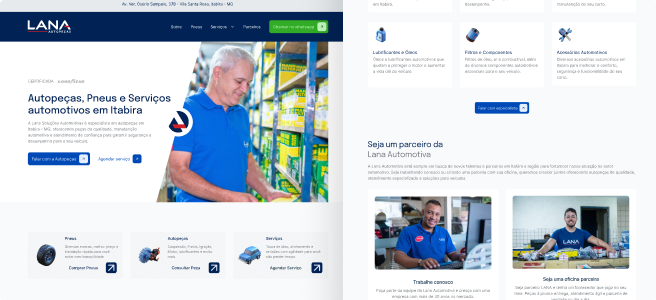
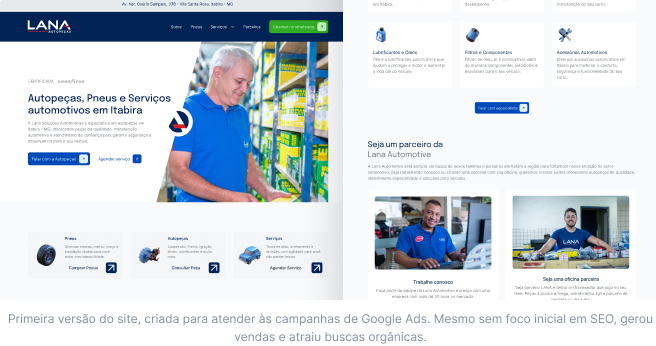
final?

diff --git a/src/App.jsx b/src/App.jsx
@@ -790,10 +790,11 @@ function LanaPage() {
       <main className="elev-case lana-case" aria-labelledby="lana-title">
         <article className="elev-case__shell" ref={reveal}>
           <CaseHeader current="Lana Automotiva" />
+          <div className="lana-case__main-content">
           <header className="elev-case__hero">
             <h1 id="lana-title">LANA AUTOMOTIVA</h1>
             <figure className="lana-case__image">
-              <img src="/assets/lana-case/cover.png" alt="Composição das novas páginas da Lana Automotiva" width="656" height="410" />
+              <img src="/assets/lana-case/cover.png" alt="Composição das páginas da Lana Automotiva" width="656" height="410" />
             </figure>
             <dl className="elev-case__meta" aria-label="Informações do projeto">
               <div><dt>Papel</dt><dd>Estratégia · UX/UI</dd></div>
@@ -801,20 +802,30 @@ function LanaPage() {
               <div><dt>Status</dt><dd>Em desenvolvimento</dd></div>
             </dl>
           </header>
-          <section className="elev-case__section" aria-labelledby="lana-project-title">
-            <h2 id="lana-project-title">O projeto</h2>
-            <p>O projeto nasceu para transformar campanhas de Google Ads em oportunidades para a marca. Após lançar uma primeira versão do site, usei dados de busca e desempenho das campanhas para orientar a arquitetura e o conteúdo da versão definitiva.</p>
+
+          <section className="elev-case__section lana-case__intro" aria-labelledby="lana-context-title">
+            <h2 id="lana-context-title">Contexto</h2>
+            <p>A Lana é uma autopeças e centro automotivo em Itabira que atende motoristas da região e frotas de empresas. O site nasceu com um objetivo imediato: sustentar as campanhas de Google Ads.</p>
           </section>
           <hr className="lana-case__divider" />
-          <section className="elev-case__section" aria-labelledby="lana-start-title">
-            <h2 id="lana-start-title">O ponto de partida</h2>
-            <p>A primeira versão do site foi criada para colocar as campanhas de Google Ads em operação e gerar uma base real de comportamento. Em vez de ser tratada como descarte, ela se tornou uma etapa de validação: colocou mensagens, serviços e caminhos de conversão diante de usuários reais antes do investimento na estrutura definitiva.</p>
+          <section className="elev-case__section lana-case__challenge" aria-labelledby="lana-challenge-title">
+            <h2 id="lana-challenge-title">O desafio</h2>
+            <p>Um site feito para receber tráfego pago funciona enquanto há investimento em mídia. O desafio era transformá-lo num canal próprio de aquisição: ser encontrado por quem busca serviços automotivos em Itabira, no Google e em respostas de IA, e converter esse visitante em contato, sem depender só de anúncio.</p>
           </section>
-          <figure className="lana-case__evidence lana-case__evidence--analytics">
-            <div className="lana-case__analytics-crop">
-              <img src="/assets/lana-case/analytics.png" alt="Relatório do GA4 com os canais de aquisição de tráfego da Lana" />
-            </div>
-            <figcaption>Imagem do GA4 da LANA.</figcaption>
+          <hr className="lana-case__divider" />
+          <section className="elev-case__section lana-case__starting-point" aria-labelledby="lana-start-title">
+            <h2 id="lana-start-title">O ponto de partida</h2>
+            <p>Entre 25 de junho e 22 de setembro, o site recebeu 650 usuários e mais de 3.000 eventos. A descoberta principal foi que a busca orgânica já era o maior canal de aquisição, com cerca de 34% dos usuários, à frente do tráfego pago, mesmo sem nenhuma estratégia de SEO. Havia demanda orgânica sendo capturada por acaso. A v2 foi desenhada para capturá-la de propósito.</p>
+          </section>
+          <figure className="lana-case__image lana-case__first-site">
+            <img src="/assets/lana-case/first-website.png" alt="Primeira versão do site da Lana Automotiva" width="656" height="300" />
+          </figure>
+
+          <section className="elev-case__section lana-case__data-heading" aria-labelledby="lana-data-title">
+            <h2 id="lana-data-title">O que os dados mostraram</h2>
+          </section>
+          <figure className="lana-case__image lana-case__analytics">
+            <img src="/assets/lana-case/analytics-panel.png" alt="Relatório do GA4: busca orgânica representa 33,64% dos usuários; a legenda identifica o painel como imagem do GA4 da Lana" width="656" height="300" />
           </figure>
           <section className="lana-case__baseline" aria-label="Dados do site atual">
             <dl className="lana-case__metrics">
@@ -825,18 +836,44 @@ function LanaPage() {
             <p className="lana-case__caption">Fonte: Google Analytics 4. Período analisado: 25 de junho - 22 de setembro.</p>
           </section>
           <p className="lana-case__highlight">O projeto evoluiu a partir de evidências. Analytics e mídia mostraram o comportamento; a pesquisa assistida por IA ampliou o diagnóstico e traduziu os achados em prioridades de conteúdo, arquitetura e produto.</p>
-          <figure className="lana-case__evidence lana-case__evidence--research">
-            <div className="lana-case__research-images">
-              <img src="/assets/lana-case/keywords.png" alt="Pesquisa de palavras-chave e volumes de busca para o setor automotivo" width="568" height="199" />
-              <img src="/assets/lana-case/competitors.png" alt="Análise de concorrentes e categorias de páginas em falta" width="568" height="199" />
-            </div>
-            <figcaption>Pesquisa de palavras-chave e análise de concorrentes com Claude Code e Firecrawl.</figcaption>
-          </figure>
-          <figure className="lana-case__image lana-case__first-site">
-            <img src="/assets/lana-case/first-website.png" alt="Primeira versão do site da Lana, com autopeças, pneus e serviços automotivos" width="656" height="300" />
-            <figcaption>Primeira versão do site, criada para atender às campanhas de Google Ads. Mesmo sem foco inicial em SEO, gerou vendas e atraiu buscas orgânicas.</figcaption>
-          </figure>
           <hr className="lana-case__divider" />
+          </div>
+
+          <section className="lana-case__research" aria-labelledby="lana-research-title">
+            <h2 id="lana-research-title">Pesquisa</h2>
+            <p>Com os dados como ponto de partida, aprofundei o diagnóstico em quatro frentes:</p>
+            <div className="lana-case__research-item">
+              <p><strong>Benchmark:</strong> Analisei 5 sites do setor automotivo, no panorama local e regional para entender padrões de navegação, oferta de serviços e conversão.</p>
+              <figure className="lana-case__image lana-case__research-image">
+                <img src="/assets/lana-case/research-benchmark.png" alt="Benchmark competitivo da Lana comparado a cinco sites do setor" width="656" height="287" />
+              </figure>
+            </div>
+            <div className="lana-case__research-item">
+              <p><strong>Personas:</strong> Identifiquei públicos com necessidades diferentes. O motorista local quer resolver rápido: saber se a Lana faz o serviço, onde fica e como falar com alguém. O gestor de frota quer confiança e previsibilidade para fechar uma parceria.</p>
+              <figure className="lana-case__image lana-case__research-image">
+                <img src="/assets/lana-case/research-personas.png" alt="Persona do motorista local, que busca confiança e informações rápidas antes de ir à oficina" width="656" height="287" />
+              </figure>
+            </div>
+          </section>
+
+          <section className="lana-case__architecture" aria-label="Arquitetura da informação">
+            <p>O sitemap reúne 22 páginas, incluindo subpáginas e blog. Oito são novas, com páginas de SEO dedicadas a cada serviço e ao conteúdo.</p>
+            <img src="/assets/lana-case/architecture.png" alt="Mapa de keywords locais com páginas, termos alvo e intenção de busca" />
+          </section>
+          <section className="lana-case__design" aria-labelledby="lana-design-title">
+            <hr className="lana-case__divider" />
+            <div className="lana-case__design-intro">
+              <h2 id="lana-design-title">Da pesquisa ao design</h2>
+              <figure className="lana-case__design-showcase">
+                <img src="/assets/lana-case/design-showcase.png" alt="Pranchas do redesign da Lana, com telas desktop e mobile para home, serviços, história, pneus e autopeças" width="656" height="408" />
+              </figure>
+            </div>
+            <img className="lana-case__final-screens" src="/assets/lana-case/final-screens.png" alt="Telas finais do redesign: página de serviços, cards de serviços automotivos, seção de peças originais, perguntas frequentes e rodapé" width="656" height="836" />
+          </section>
+          <section className="lana-case__next" aria-labelledby="lana-next-title">
+            <h2 id="lana-next-title">Próximos passos</h2>
+            <p>O projeto atualmente está pausado devido a conflitos com a agência, mas será implementado em breve. Os próximos passos são finalizar todas as telas de serviços e blog. Os números da v1 viram a linha de base para medir o impacto: crescimento da busca orgânica, cliques no WhatsApp por página e posicionamento das keywords prioritárias.</p>
+          </section>
         </article>
       </main>
     </Shell>

diff --git a/styles.css b/styles.css
@@ -7278,47 +7278,86 @@ html[data-theme="dark"] .theme-toggle .theme-icon-sun {
   }
 }
 
-/* Lana case — Figma 469:5486. Evidence panels retain the source crops. */
+/* Lana case — Figma 469:5486. */
 .lana-case { padding-bottom: 80px; }
-.lana-case .elev-case__section { gap: var(--space-md); }
+.lana-case .elev-case__shell { gap: 32px; }
+.lana-case__main-content { display: flex; flex-direction: column; gap: 32px; flex: 0 0 2279px; height: 2279px; }
+.lana-case .case-header { gap: 32px; }
+.lana-case .elev-case__hero { gap: 32px; }
+.lana-case .elev-case__hero h1 { font-size: 40px; }
 .lana-case .elev-case__meta { grid-template-columns: 150px 1px 230px 1px minmax(0, 1fr); }
 .lana-case .elev-case__meta::before,
 .lana-case .elev-case__meta::after { height: 44px; }
+.lana-case__intro { height: 123px; flex: 0 0 123px; }
+.lana-case__challenge { height: 149px; flex: 0 0 149px; }
+.lana-case__starting-point { height: 175px; flex: 0 0 175px; }
+.lana-case__data-heading { height: 29px; flex: 0 0 29px; }
+.lana-case__highlight { height: 75px; flex: 0 0 75px; }
 .lana-case__divider { width: 100%; margin: 0; border: 0; border-top: 1px solid #e5e5e5; }
 .lana-case__image { margin: 0; }
-.lana-case__image > img { width: 100%; height: auto; border-radius: 6px; }
+.lana-case__image > img { display: block; width: 100%; height: auto; border-radius: 6px; }
+.lana-case__first-site { height: 346px; margin-top: -4px; overflow: hidden; }
+.lana-case__first-site > img { height: 100%; object-fit: cover; object-position: top; }
+.lana-case__data-heading h2 { margin: 0; }
 .lana-case__evidence { position: relative; margin: 0; background: #fafafa; border-radius: 6px; overflow: hidden; }
-.lana-case__evidence--analytics { padding: 50.5px 44px; }
-.lana-case__analytics-crop { position: relative; aspect-ratio: 568 / 199; overflow: hidden; border-radius: var(--radius-xs); }
-.lana-case__analytics-crop img { position: absolute; width: 108.1%; height: 107%; max-width: none; left: -4.05%; top: -6.77%; }
-.lana-case figcaption,
-.lana-case .lana-case__caption { font-size: 12px; line-height: 1.5; text-align: center; color: #8590a2; }
+.lana-case__analytics > img { width: 100%; height: auto; border-radius: 6px; }
+.lana-case figcaption { font-size: 12px; line-height: 1.5; text-align: center; color: #8590a2; }
 .lana-case__evidence figcaption { position: absolute; bottom: 16.5px; left: 0; width: 100%; padding: 0 8px; }
-.lana-case__baseline { display: flex; flex-direction: column; gap: var(--space-md); }
-.lana-case__metrics { display: grid; grid-template-columns: repeat(3, minmax(0, 1fr)); gap: var(--space-md); margin: 0; }
-.lana-case__metrics > div { display: flex; flex-direction: column; gap: var(--space-sm); padding: var(--space-md); border: 1px solid #e5e5e5; border-radius: 12px; }
+.lana-case__baseline { display: flex; flex-direction: column; gap: 16px; height: 161px; }
+.lana-case__metrics { display: grid; grid-template-columns: repeat(3, minmax(0, 1fr)); gap: 16px; margin: 0; }
+.lana-case__metrics > div { display: flex; flex-direction: column; gap: 12px; padding: 16px; border: 1px solid #e5e5e5; border-radius: 12px; }
 .lana-case__metrics dt { font-size: 13px; font-weight: 600; line-height: 1.4; color: #000; }
 .lana-case__metrics dd { margin: 0; font-family: Archivo, Inter, sans-serif; font-size: 28px; font-weight: 500; line-height: 1.2; color: #000; }
 .lana-case__metrics span { font-size: 12px; line-height: 1.45; color: #8590a2; }
+.lana-case__caption { margin: 0; font-size: 12px !important; line-height: 1.5 !important; text-align: center; }
 .lana-case .lana-case__highlight { font-weight: 500; line-height: 1.55; color: #000; }
-.lana-case__evidence--research { padding: 44px; }
-.lana-case__research-images { display: flex; flex-direction: column; gap: var(--space-xs); }
-.lana-case__research-images img { width: 100%; height: auto; aspect-ratio: 568 / 199; object-fit: cover; border-radius: var(--radius-xs); }
-.lana-case__evidence--research figcaption { bottom: 10px; }
-.lana-case__first-site { display: flex; flex-direction: column; gap: 10px; }
+.lana-case__research,
+.lana-case__architecture,
+.lana-case__design,
+.lana-case__next { display: flex; flex-direction: column; gap: 16px; }
+.lana-case__research { height: 839px; flex: 0 0 839px; }
+.lana-case__research h2,
+.lana-case__design h2,
+.lana-case__next h2 { margin: 0; }
+.lana-case__research-item { display: flex; flex-direction: column; gap: 16px; }
+.lana-case__research-item > p strong { color: #000; font-weight: 500; }
+.lana-case__research-image > img { width: 100%; height: auto; border-radius: 6px; }
+.lana-case__architecture { height: 437px; flex: 0 0 437px; padding-top: 0; }
+.lana-case__architecture > img { width: 100%; height: 369px; object-fit: cover; object-position: top; border-radius: 6px; }
+.lana-case__design { height: 1322px; flex: 0 0 1322px; }
+.lana-case__design-intro { display: flex; flex-direction: column; gap: 16px; height: 453px; flex: 0 0 453px; }
+.lana-case__design-intro h2 { margin: 0; }
+.lana-case__design-showcase { margin: 0; width: 100%; overflow: hidden; border-radius: 6px; }
+.lana-case__design-showcase img { width: 100%; height: auto; }
+.lana-case__final-screens { display: block; width: 100%; height: 836px; object-fit: cover; object-position: top; border-radius: 6px; }
+.lana-case__next { height: 175px; flex: 0 0 175px; }
 @media (max-width: 600px) {
-  .lana-case .elev-case__meta { grid-template-columns: 1fr; gap: var(--space-md); }
+  .lana-case .elev-case__meta { grid-template-columns: 1fr; gap: 16px; }
   .lana-case .elev-case__meta div { grid-column: 1; }
   .lana-case .elev-case__meta::before,
   .lana-case .elev-case__meta::after { display: none; }
-  .lana-case__metrics { gap: var(--space-xs); }
-  .lana-case__metrics > div { padding: var(--space-sm); }
+  .lana-case__metrics { gap: 8px; }
+  .lana-case__metrics > div { padding: 10px 8px; }
   .lana-case__metrics dt { font-size: 11px; }
   .lana-case__metrics dd { font-size: 24px; }
   .lana-case__metrics span { font-size: 10px; }
-  .lana-case__evidence--analytics,
-  .lana-case__evidence--research { padding: var(--space-lg) var(--space-md) 0; }
-  .lana-case__evidence figcaption { position: static; padding: var(--space-sm) 0; }
+  .lana-case__evidence figcaption { bottom: 10px; font-size: 10px; }
+  .lana-case__main-content { flex-basis: auto; height: auto; }
+  .lana-case__intro,
+  .lana-case__challenge,
+  .lana-case__starting-point,
+  .lana-case__data-heading,
+  .lana-case__highlight { height: auto; flex-basis: auto; }
+  .lana-case__first-site { height: auto; }
+  .lana-case__first-site > img { height: auto; }
+  .lana-case__baseline { height: auto; }
+  .lana-case__research,
+  .lana-case__architecture,
+  .lana-case__design,
+  .lana-case__next { height: auto; flex-basis: auto; }
+  .lana-case__design-intro { height: auto; flex-basis: auto; }
+  .lana-case__final-screens { height: auto; }
+  .lana-case__architecture > img { height: auto; aspect-ratio: 656 / 369; }
 }
 
 /* The clipped showcase is the final edge of the projects home. */

diff --git a/src/CartoonAvatar.jsx b/src/CartoonAvatar.jsx
@@ -47,24 +47,78 @@ export default function CartoonAvatar({ className = "simple-avatar" }) {
       schedule();
     };
 
+    // Devices without a precise hover pointer (touch/mobile) get a gentle
+    // randomized "idle glance" instead of following the mouse.
+    let idleFrame = 0;
+    let idleTimer = 0;
+    let idleTarget = { x: 0, y: 0 };
+    const idleCurrent = { x: 0, y: 0 };
+
+    const idleTick = () => {
+      idleCurrent.x += (idleTarget.x - idleCurrent.x) * 0.06;
+      idleCurrent.y += (idleTarget.y - idleCurrent.y) * 0.06;
+      const limit = Math.max(1, Math.hypot(idleCurrent.x, idleCurrent.y));
+      pupilsRef.current.forEach((pupil) => {
+        pupil?.setAttribute("transform", `translate(${25 * idleCurrent.x / limit} ${25 * idleCurrent.y / limit})`);
+      });
+      idleFrame = requestAnimationFrame(idleTick);
+    };
+    const pickIdleTarget = () => {
+      if (Math.random() < 0.25) {
+        idleTarget = { x: 0, y: 0 };
+      } else {
+        const angle = Math.random() * Math.PI * 2;
+        const radius = 0.3 + Math.random() * 0.7;
+        idleTarget = { x: Math.cos(angle) * radius, y: Math.sin(angle) * radius * 0.6 };
+      }
+      idleTimer = window.setTimeout(pickIdleTarget, 900 + Math.random() * 2200);
+    };
+    const stopIdle = () => {
+      cancelAnimationFrame(idleFrame);
+      idleFrame = 0;
+      window.clearTimeout(idleTimer);
+      idleTimer = 0;
+    };
+    const startIdle = () => {
+      if (idleFrame || motion.matches || pointer.matches) return;
+      idleCurrent.x = 0;
+      idleCurrent.y = 0;
+      pickIdleTarget();
+      idleFrame = requestAnimationFrame(idleTick);
+    };
+    const syncMode = () => {
+      reset();
+      stopIdle();
+      startIdle();
+    };
+    const onVisibility = () => {
+      reset();
+      if (document.hidden) stopIdle();
+      else startIdle();
+    };
+
     window.addEventListener("pointermove", move, { passive: true });
     document.documentElement.addEventListener("pointerleave", reset);
     window.addEventListener("blur", reset);
     window.addEventListener("scroll", schedule, { passive: true, capture: true });
     window.addEventListener("resize", schedule);
-    document.addEventListener("visibilitychange", reset);
-    motion.addEventListener("change", reset);
-    pointer.addEventListener("change", reset);
+    document.addEventListener("visibilitychange", onVisibility);
+    motion.addEventListener("change", syncMode);
+    pointer.addEventListener("change", syncMode);
+
+    startIdle();
+
     return () => {
       reset();
+      stopIdle();
       window.removeEventListener("pointermove", move);
       document.documentElement.removeEventListener("pointerleave", reset);
       window.removeEventListener("blur", reset);
       window.removeEventListener("scroll", schedule, true);
       window.removeEventListener("resize", schedule);
-      document.removeEventListener("visibilitychange", reset);
-      motion.removeEventListener("change", reset);
-      pointer.removeEventListener("change", reset);
+      document.removeEventListener("visibilitychange", onVisibility);
+      motion.removeEventListener("change", syncMode);
+      pointer.removeEventListener("change", syncMode);
     };
   }, []);
 
